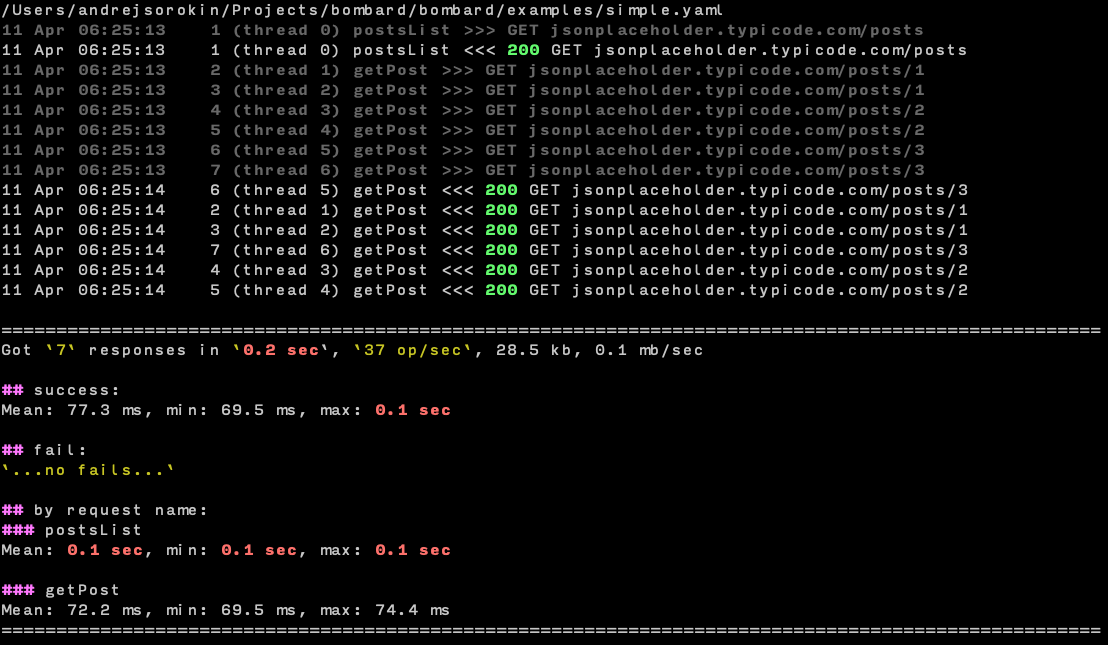
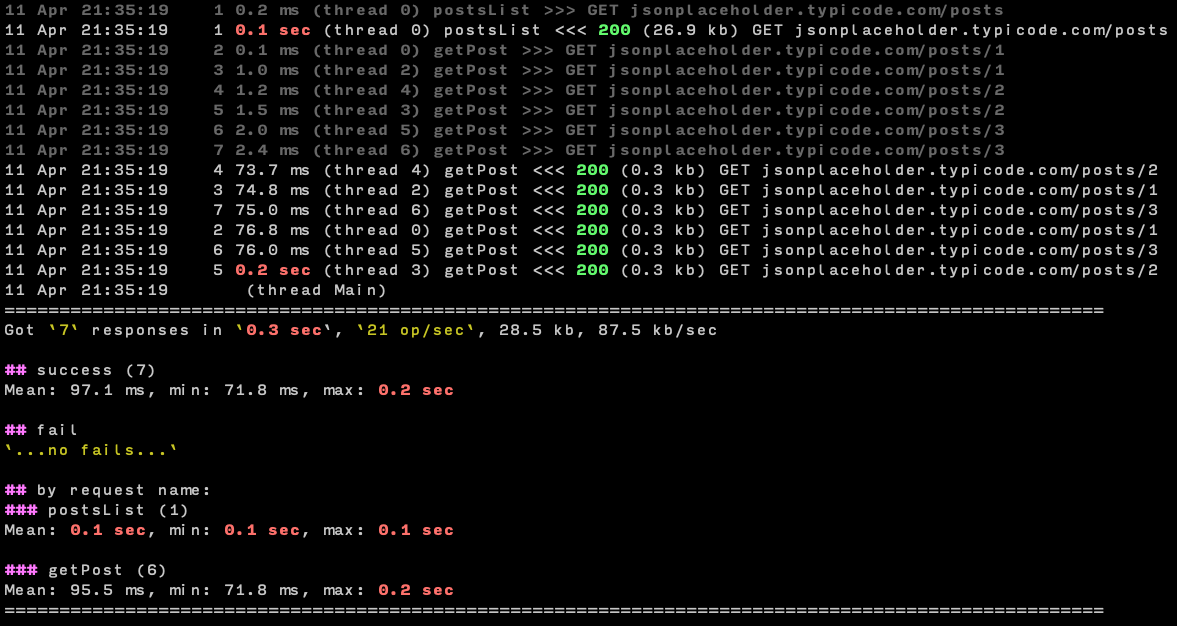
screenshot from latest version

Changed region(s): [[0.0, 0.0, 1.0, 0.7284], [0.0, 0.7588, 1.0, 1.0]]

diff --git a/setup.py b/setup.py
@@ -6,7 +6,7 @@ with open("README.rst", "r") as fh:
 
 setuptools.setup(
     name='bombard',
-    version='1.4',
+    version='1.5',
     # scripts=['bin/bombard'],
     entry_points={
         'console_scripts': [

diff --git a/docs/index.rst b/docs/index.rst
@@ -38,12 +38,14 @@ More complex example
        headers: json
 
 Example above is included into bombard internal examples that you can use with
-option `--example` like that (we also set repeatition number to 2 and
-threshhold to color in red to 100ms)::
+option `--example` like that::
 
     bombard --example simple --repeat 2 --threshold 100
 
-And you will get something like this:
+Above we also set repetition number to 2 and threshold to 100ms
+so anything equal and above that will be in red.
+
+You will get something like this:
 
 .. image:: _static/simple_stdout.png
 
